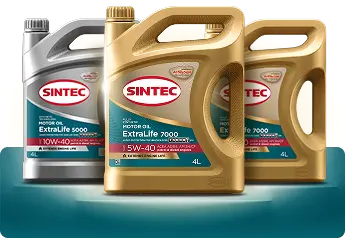
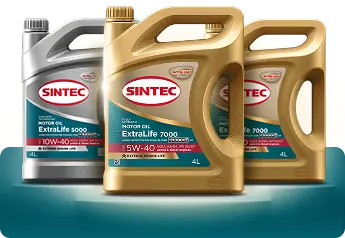
update photo

diff --git a/index.html b/index.html
@@ -97,7 +97,7 @@
           <div class="line__content">
             <div class="line__left">
               <picture>
-                <source media="(max-width: 768px)" srcset="img/line/line_photo_mobile.webp">
+                <source media="(max-width: 768px)" srcset="img/line/line_photo_mobile.webp 1x, img/line/line_photo_mobile@2x.webp 2x, img/line/line_photo_mobile@3x.webp 3x">
                 <img src="img/line/line_photo.webp"
                   srcset="img/line/line_photo.webp 1x, img/line/line_photo@2x.webp 2x, img/line/line_photo@3x.webp 3x"
                   alt="Фото канистр">
